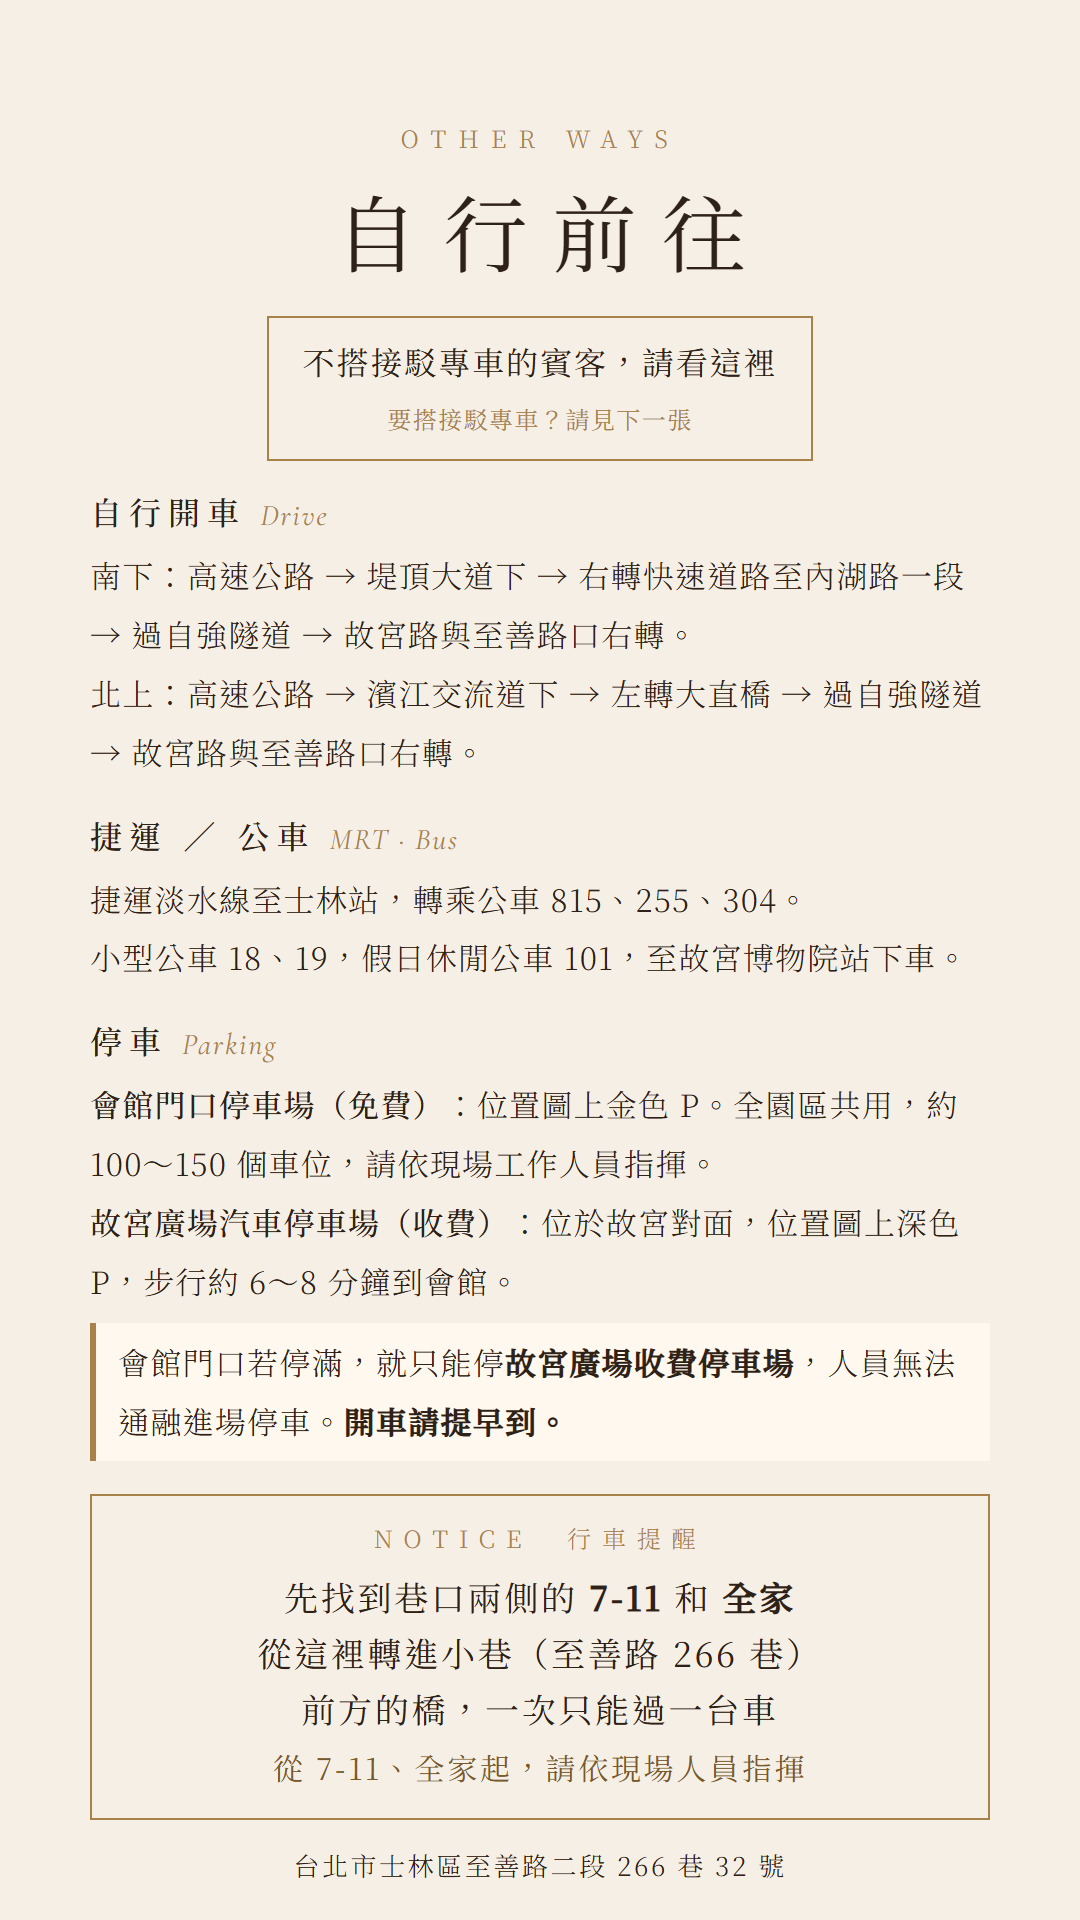
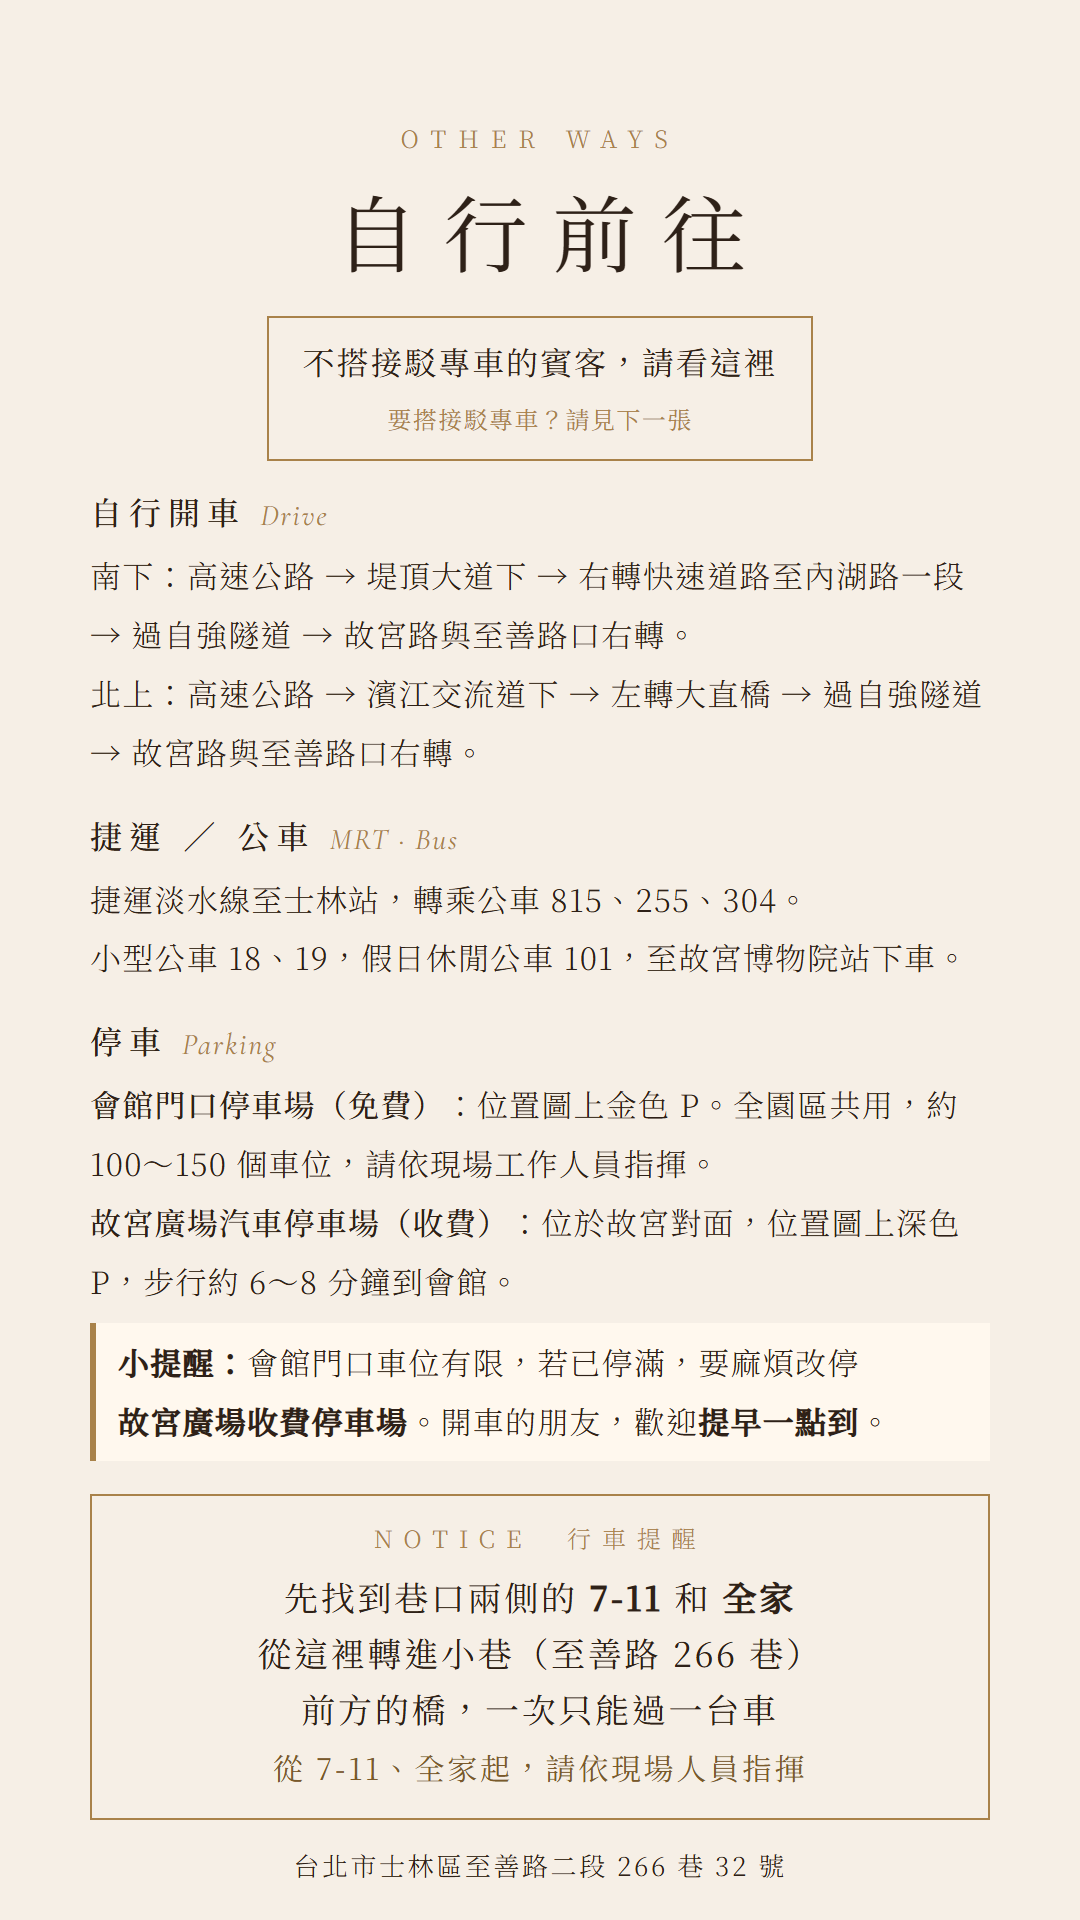
Parking reminder: softer wording, keep key phrases on one line

Changed region(s): [[0.0917, 0.6875, 0.8861, 0.75]]

diff --git a/index.html b/index.html
@@ -126,6 +126,7 @@ p{font-size:15px;letter-spacing:.06em}
 .access b{font-weight:500}
 .pk-warn{margin:4px 0 14px;padding:13px 15px;border-left:4px solid var(--gold);background:#fff8ee;font-size:15px;line-height:1.9;letter-spacing:.04em}
 .pk-warn b{font-weight:600}
+.pk-warn .nw{white-space:nowrap}
 .park{display:grid;gap:12px;margin-top:4px}
 .pk{background:var(--soft);padding:16px 16px 14px}
 .pk-t{font-size:17px;font-weight:500;letter-spacing:.08em;display:flex;align-items:center;gap:10px;margin-bottom:6px}
@@ -300,7 +301,7 @@ footer p{margin-top:10px;font-size:13px;letter-spacing:.3em;color:var(--gold)}
   </div>
 
   <h3>停車 <small>Parking</small></h3>
-  <div class="pk-warn"><b>提醒：</b>會館門口停車場若已停滿，就只能改停<b>故宮廣場收費停車場</b>，現場人員無法通融讓車輛進場停車。<br><b>開車的朋友，請提早抵達。</b></div>
+  <div class="pk-warn"><b>小提醒：</b>會館門口的車位有限，若已停滿，現場無法再讓車輛進場，就要麻煩改停<b class="nw">故宮廣場收費停車場</b>。<br>開車的朋友若方便，歡迎<b class="nw">提早一點到</b>，<span class="nw">會比較從容。</span></div>
   <div class="park">
     <div class="pk">
       <div class="pk-t">會館門口停車場<i class="free">免費</i></div>
